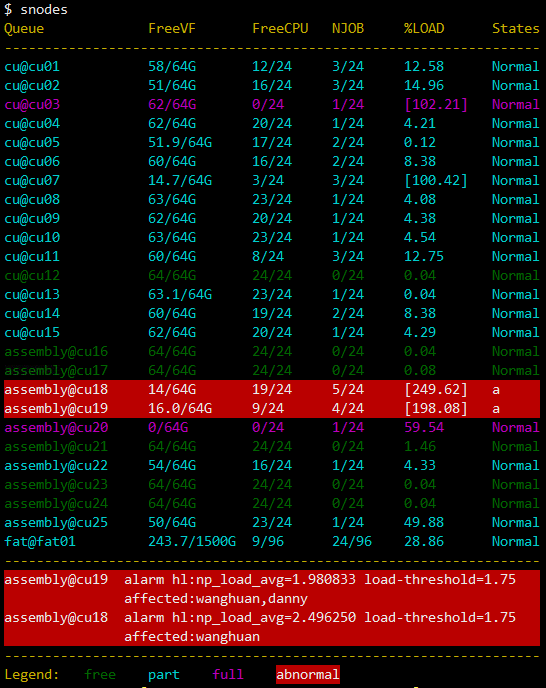
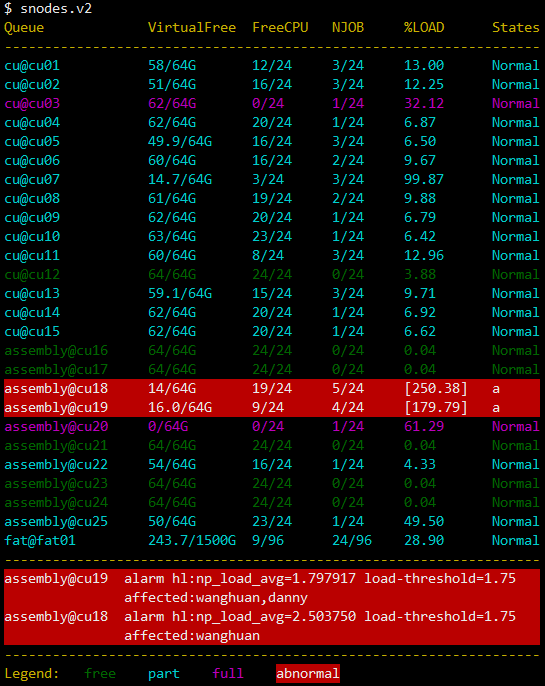
update README.md and screenshot.png

diff --git a/README.md b/README.md
@@ -6,7 +6,16 @@ Some scripts for managing nodes and jobs on SGE
 
 Snodes is a command-line tool for showing the current status of queues and available resources.
 
+### Features:
+
+* decorate the status of queues in different colors (free, partly used, full)
+
+* highlight abnormal queues
+
+* show the detailed informations of abnormal queues (reasons, affected users)
+
 ![snodes.v2](https://github.com/zengxiaofei/SGE-scripts/blob/master/snodes_v2/screenshot.png)
+
 
 ## snodes.v1
 
